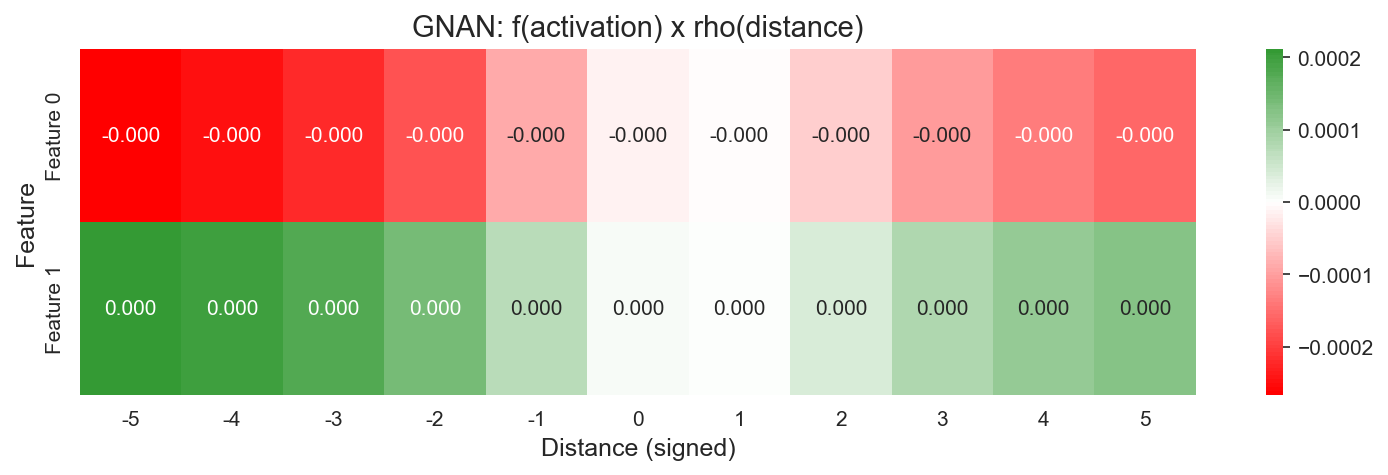
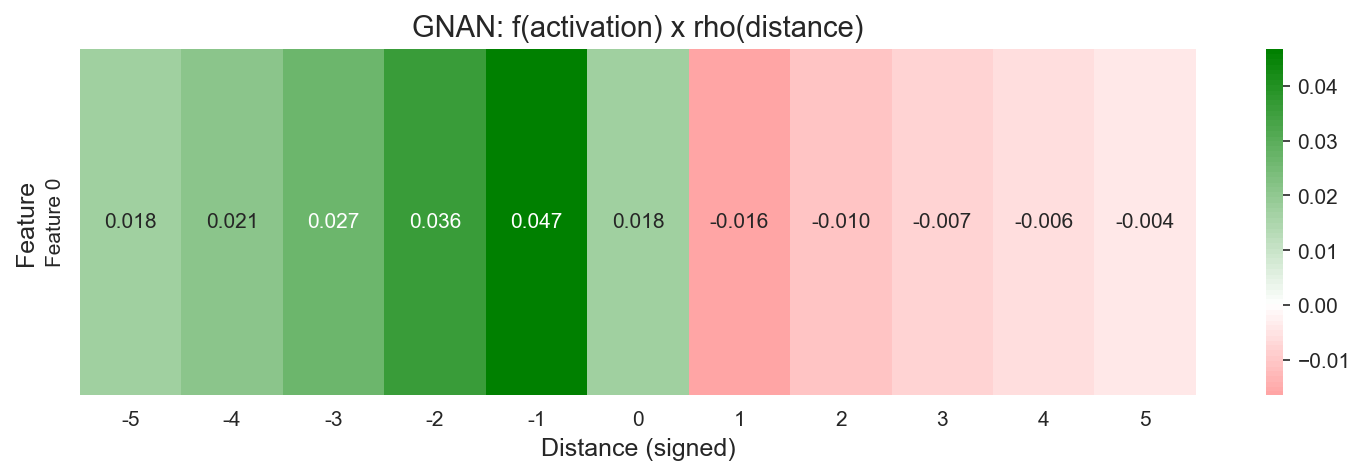
added from mian pc

diff --git a/spd/models/component_utils.py b/spd/models/component_utils.py
@@ -192,15 +192,40 @@ def _construct_node_distances_backwards_only(all_gate_outputs: dict, device: tor
     
     return node_distances
 
-def _construct_node_distances(all_gate_outputs: dict, device: torch.device) -> Tensor:
-    layer_ids = []
-    for layer_idx, name in enumerate(all_gate_outputs.keys()):
-        C = all_gate_outputs[name].shape[-1]
-        layer_ids.extend([layer_idx] * C)
-    layer_ids = torch.tensor(layer_ids, dtype=torch.float, device=device).unsqueeze(-1)
-    node_distances = layer_ids.unsqueeze(0) - layer_ids.unsqueeze(1)
+# def _construct_node_distances(all_gate_outputs: dict, device: torch.device) -> Tensor:
+#     layer_ids = []
+#     for layer_idx, name in enumerate(all_gate_outputs.keys()):
+#         C = all_gate_outputs[name].shape[-1]
+#         layer_ids.extend([layer_idx] * C)
+#     layer_ids = torch.tensor(layer_ids, dtype=torch.float, device=device).unsqueeze(-1)
+#     node_distances = layer_ids.unsqueeze(0) - layer_ids.unsqueeze(1)
 
-    return node_distances
+#     return node_distances
+
+def _construct_node_distances(all_gate_outputs: dict, device: torch.device):
+    node_vectors = []
+
+    for name in all_gate_outputs:
+        x = all_gate_outputs[name]  # shape: (..., C)
+
+        # Move channels to first dimension → (C, ...)
+        x = x.movedim(-1, 0)
+
+        # Flatten everything except channel → (C, feature_dim)
+        x = x.flatten(1)
+
+        node_vectors.append(x)
+
+    # Concatenate all nodes across layers
+    node_vectors = torch.cat(node_vectors, dim=0).to(device)  # (num_nodes, feature_dim)
+
+    # Normalize for cosine similarity
+    node_vectors = F.normalize(node_vectors, p=2, dim=1)
+
+    # Cosine similarity matrix
+    node_similarities = node_vectors @ node_vectors.T  # (num_nodes, num_nodes)
+
+    return node_similarities
 
 
 def _remove_same_layer_edges(edge_index: Tensor, node_distances: Tensor) -> Tensor:
@@ -253,6 +278,7 @@ def calc_causal_importances(
 
         if use_gnn:
             #ad the gate (mean output over k) and the features to their respective dictionaries.
+            #Now we take the gate mechanism and add gnn on top. 
             all_gate_outputs[param_name] = gate_input    # (batch, C) — for gating
             all_gate_feats[param_name] = gate_feats      # (batch, C, k) — for GNAN
         else:
@@ -326,8 +352,7 @@ def calc_causal_importances(
         for param_name in pre_weight_acts:
             C = all_gate_outputs[param_name].shape[-1]
             layer_out = gnn_out[:, offset:offset + C]  # (batch, C)
-            #Changed it to be just the gnn not as a residual, as a test. worked horribly.
-            all_gate_outputs[param_name] =  all_gate_outputs[param_name] + layer_out
+            all_gate_outputs[param_name] = all_gate_outputs[param_name] + layer_out
             offset += C
 
 

diff --git a/spd/models/gnan.py b/spd/models/gnan.py
@@ -21,11 +21,17 @@ class TensorGNAN(nn.Module):
         self.normalize_rho = normalize_rho
         self.fs = nn.ModuleList()
         self.is_graph_task = is_graph_task
+        
 
-        #Create n fully connected layers, one for each input feature.
-        #This is one fully connected model for each input feature.
-        #hidden_channels is the number of neurons in the "middle" layers. 
-        #Output the amount of values to be returned.
+        self.self_mlp = nn.Sequential(
+            nn.Linear(in_channels, hidden_channels),
+            nn.ReLU(),
+            nn.Linear(hidden_channels, out_channels),)
+        
+        # Create n fully connected layers, one for each input feature.
+        # This is one fully connected model for each input feature.
+        # hidden_channels is the number of neurons in the "middle" layers. 
+        # Output the amount of values to be returned.
         for _ in range(in_channels):
             if n_layers == 1:
                 curr_f = [nn.Linear(1, self.out_channels, bias=bias)]
@@ -177,7 +183,8 @@ class TensorGNAN(nn.Module):
 
         #We however expect a single output per out_channel, so we sum the features together
         mf = mf.sum(dim=3).permute(0, 2, 1)                 # (B, N, out_channels)
-        return mf
+    
+        return mf + self.self_mlp(x_batch)
 
 
 class GNAN(nn.Module):

diff --git a/spd/visualization/visualize.py b/spd/visualization/visualize.py
@@ -5,10 +5,10 @@ import seaborn as sns
 from spd.models.gnan import TensorGNAN
 
 # Load model
-n_components = 2
+n_components = 1
 
 gnan = TensorGNAN(in_channels=n_components, out_channels=1, n_layers=2, hidden_channels=16, device='cpu')
-gnan.load_state_dict(torch.load(r"spd\\experiments\\resid_mlp\\out\\nmasks1_stochrecon1.00e+00_stochreconlayer1.00e+00_p2.00e+00_impmin1.00e-05_C100_sd0_lr2.00e-03_bs2048_ft102_lay3_resid1000_mlp17_20260329_213639_034\\gnan.pth", map_location='cpu'))
+gnan.load_state_dict(torch.load(r"C:\\Users\\Knud\\uni\\spd\\spd\\experiments\\resid_mlp\\out\\nmasks1_stochrecon1.00e+00_stochreconlayer1.00e+00_p2.00e+00_impmin1.00e-05_C100_sd0_lr2.00e-03_bs2048_ft102_lay3_resid1000_mlp17_20260405_133756_929\\gnan.pth", map_location='cpu'))
 gnan.eval()
 
 n_layers = 6
